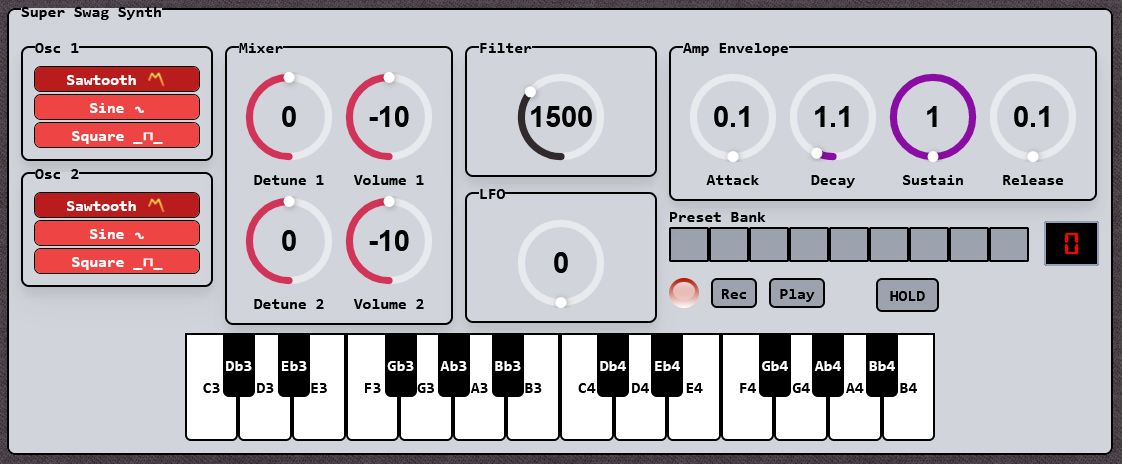
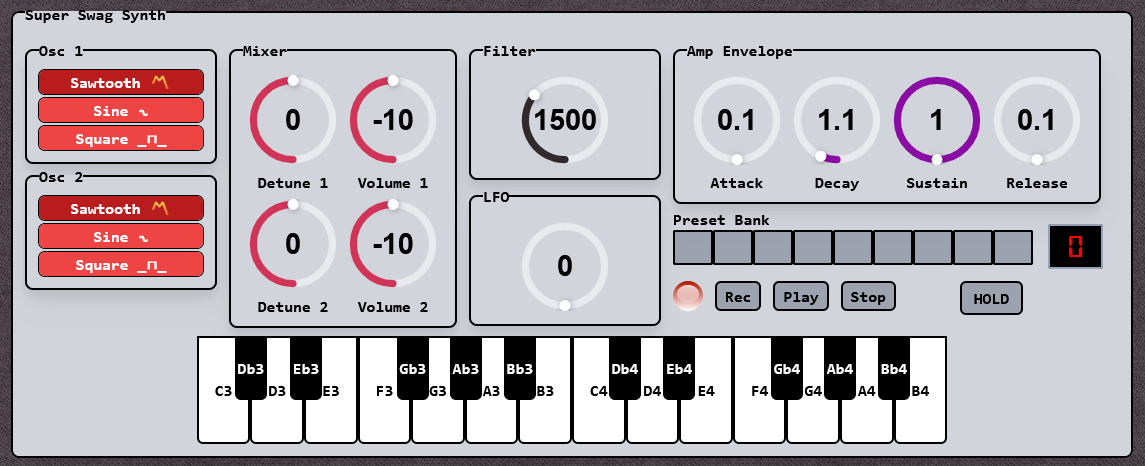
All around cleaning up
- Deleted cat photos
- added photos to about section
- commented out all aws code
- added stop button for sequence

Changed region(s): [[0.0, 0.0, 1.0, 1.0], [0.4679, 0.5431, 0.5303, 0.6034], [0.4679, 0.6336, 0.5303, 0.6638]]

diff --git a/src/pages/Synth.js b/src/pages/Synth.js
@@ -204,13 +204,23 @@ export const Synth = () => {
     setSequenceRecording(prevSequenceRecording => !prevSequenceRecording)
   }
 
+  let seq;
   const handlePlayClick = () => {
-    const seq = new Tone.Sequence((time, note) => {
+    seq = new Tone.Sequence((time, note) => {
       synth.triggerAttackRelease(note, 0.1, time);
       // subdivisions are given as subarrays
     }, sequence).start(0);
     Tone.Transport.start();
     ampEnv.triggerAttack()
+  }
+
+  const handleStopClick = () => {
+    if (seq) {
+      Tone.Transport.stop()
+      seq.stop()
+      seq.dispose()
+      seq = null
+    }
   }
 
   const handleAmpEnvChange = (name, value)  => {
@@ -268,10 +278,10 @@ export const Synth = () => {
   }
 
   return (
-    <div className="App">
+    <div className="App bg-sky-700 flex">
       <NavBar />
 
-      <div className='textured-background rounded-xl py-20'>
+      <div className='textured-background rounded-xl m-auto p-20 mt-40'>
 
       {/* SYNTH BODY */}
       <fieldset className='synth-body '> 
@@ -336,11 +346,11 @@ export const Synth = () => {
 
 
             <div className='flex flex-row mb-3 mt-3 justify-between'>
-              <Sequencer ledState={ledState} handleRecClick={handleRecClick} handlePlayClick={handlePlayClick}/>
+              <Sequencer ledState={ledState} handleRecClick={handleRecClick} handlePlayClick={handlePlayClick} handleStopClick={handleStopClick}/>
 
-              <button className={`${holdState ? 'bg-red-400' : 'bg-gray-400'} rounded-md px-3 border-solid border-black border-2 ml-3 transition-all duration-200 mr-40`} onClick={handleHoldStateChange}>HOLD</button>
+              <button className={`${holdState ? 'bg-red-400' : 'bg-gray-400'} rounded-md px-3 border-solid border-black border-2 ml-16 transition-all duration-200 mr-24`} onClick={handleHoldStateChange}>HOLD</button>
 
-              <button onClick={testPutObject}>TEst</button>
+              {/* <button onClick={testPutObject}>TEst</button> */}
         
             {/* <Oscilliscope analyzer={analyzer}/> */}
             </div>
@@ -365,24 +375,6 @@ export const Synth = () => {
       {/* end synth texture background div */}
       </div>
 
-      <div className='flex flex-wrap bg-slate-500'>
-        <img src={"../Images/buh.gif"} className='cat-gif'></img>
-        <img src={"../Images/buhhh.gif"} className='cat-gif'></img>
-        <img src={"../Images/funny-cat.gif"} className='cat-gif'></img>
-        <img src={"../Images/buh_upside_down.gif"} className='cat-gif'></img>
-        <img src={"../Images/catwaa.gif"} className='cat-gif'></img>
-        <img src={"../Images/crazycat.gif"} className='cat-gif'></img>
-        <img src={"../Images/buh2.gif"} className='cat-gif'></img>
-        <img src={"../Images/plink.gif"} className='cat-gif'></img>
-        <img src={"../Images/screamingcat.gif"} className='cat-gif'></img>
-        <img src={"../Images/happycat.gif"} className='cat-gif'></img>
-        <img src={"../Images/cat explode.gif"} className='cat-gif'></img>
-        <img src={"../Images/huhcat.gif"} className='cat-gif'></img>
-        <img src={"../Images/cateating.gif"} className='cat-gif'></img>
-        <img src={"../Images/catBOOM.gif"} className='cat-gif'></img>
-        <h1 className='opacity-0 hover:opacity-100'>Ethan is so cute ❤</h1>
-        <h1 className='opacity-0 hover:opacity-100'>Tj is so ugly 🤮</h1>
-      </div>
       <Footer />
     </div>
   );

diff --git a/src/pages/About.js b/src/pages/About.js
@@ -19,7 +19,7 @@ export const About = () => {
       <div className="spacer layer1"></div>
 
       <div className="bg-pink-600 flex flex-col">
-        <h1 className='py-20 m-auto text-gray-200 text-6xl'>Inspiration</h1>
+        <h1 className='py-20 m-auto text-gray-200 text-6xl -mt-16'>Inspiration</h1>
 
         {/* <img src="./Images/personal-synth-photo-nb.png"></img> */}
         <img src="./Images/personal-synth-photo.jpg" className='rounded-full w-2/3 m-auto border-solid border-2 border-slate-400'></img>
@@ -31,17 +31,36 @@ export const About = () => {
 
       <div className="flex flex-col bg-sky-950">
         <div className="spacer layer2"></div>
-        <h1 className="py-20 m-auto text-gray-200 text-6xl">In Depth Look</h1>
+        <h1 className="py-20 m-auto text-gray-200 text-6xl -mt-28">In Depth Look</h1>
 
         <div className="flex flex-row">
           <img src="../Images/OscSelectors.png" className="w-72 h-72 rounded-lg paragraph-text"></img>
           <h2 className="paragraph-text mr-36">Osc Selectors yeeah they do things yea so ciool!!sc Selectors yeeah they do things yea so ciool!!sc Selectors yeeah they do things yea so ciool!!sc Selectors yeeah they do things yea so ciool!!sc Selectors yeeah they do things yea so ciool!!sc Selectors yeeah they do things yea so ciool!!!!!</h2>
         </div>
 
-        <div className="spacer layer3"></div>
+        <div className="spacer-2 layer3"></div>
+
+        <div className="flex flex-row">
+          <img src="../Images/mixer-filter-lfo.png" className="rounded-lg paragraph-text"></img>
+          <h2 className="paragraph-text mr-36">Osc Selectors yeeah they do things yea so ciool!!sc Selectors yeeah they do things yea so ciool!!sc Selectors yeeah they do things yea so ciool!!sc Selectors yeeah they do things yea so ciool!!sc Selectors yeeah they do things yea so ciool!!sc Selectors yeeah they do things yea so ciool!!!!!</h2>
+        </div>
+
+        <div className="spacer-2 layer4"></div>
+
+        <div className="flex flex-row">
+          <img src="../Images/amp-envelope.png" className="rounded-lg paragraph-text"></img>
+          <h2 className="paragraph-text mr-36">Osc Selectors yeeah they do things yea so ciool!!sc Selectors yeeah they do things yea so ciool!!sc Selectors yeeah they do things yea so ciool!!sc Selectors yeeah they do things yea so ciool!!sc Selectors yeeah they do things yea so ciool!!sc Selectors yeeah they do things yea so ciool!!!!!</h2>
+        </div>
+
+        <div className="spacer-2 layer5"></div>
+
+        <div className="flex flex-row">
+          <img src="../Images/preset-sequencer-hold.png" className="rounded-lg paragraph-text"></img>
+          <h2 className="paragraph-text mr-36">Osc Selectors yeeah they do things yea so ciool!!sc Selectors yeeah they do things yea so ciool!!sc Selectors yeeah they do things yea so ciool!!sc Selectors yeeah they do things yea so ciool!!sc Selectors yeeah they do things yea so ciool!!sc Selectors yeeah they do things yea so ciool!!!!!</h2>
+        </div>
+
+
       </div>
-
-
       <div className='pt-24'></div>
       <Footer />
     </div>

diff --git a/src/TempPresetStorage.js b/src/TempPresetStorage.js
@@ -1,13 +1,14 @@
-const AWS = require('aws-sdk')
-//  ONLY HARD CODING KEYS AS ENVIORMENT VARIABLES ARE NOT WOKRING (IM DUMB)
-const s3 = new AWS.S3({
-  accessKeyId: 'NO KEY FOR YOU',
-  secretAccessKey: 'YOU NO GET MY KEY',
-  region: 'us-east-1'
-})
+// const AWS = require('aws-sdk')
+// //  ONLY HARD CODING KEYS AS ENVIORMENT VARIABLES ARE NOT WOKRING (IM DUMB)
+// const s3 = new AWS.S3({
+//   accessKeyId: 'NO KEY FOR YOU',
+//   secretAccessKey: 'YOU NO GET MY KEY',
+//   region: 'us-east-1'
+// })
 
-const bucketName = 'reactsynthpresetstorage'
-const keyName = 'presetBank.json'
+// console.log(process.env.AWS_ACCESS_KEY_ID)
+// const bucketName = 'reactsynthpresetstorage'
+// const keyName = 'presetBank.json'
 
 export const presetsBank = {
   preset_1: {
@@ -78,23 +79,37 @@ export const presetsBank = {
     },
     filterValue: 2000,
     lfoRate: 5
+  },
+
+  preset_6: {
+    osc1: {
+      wave: "sine", detune: 0, volume: -10
+    },
+    osc2: {
+      wave: "square", detune: 0, volume: -40
+    },
+    ampEnvState: {
+      attack: 0.1, decay: 1.5, sustain: 0, release: 1.5
+    },
+    filterValue: 4000,
+    lfoRate: 0
   }
 }
 
-const params = {
-  Bucket: bucketName,
-  Key: keyName,
-  Body: JSON.stringify(presetsBank),
-  ContentType: 'application/json'
-}
+// const params = {
+//   Bucket: bucketName,
+//   Key: keyName,
+//   Body: JSON.stringify(presetsBank),
+//   ContentType: 'application/json'
+// }
 
-export const testPutObject = () => {
-  s3.putObject(params, (err, data) => {
-    if (err) {
-      console.error('Error uploading data:', err)
-    }
-    else {
-      console.log('Successfully uploaded data to', bucketName + '/' + keyName)
-    }
-  })
-}
+// export const testPutObject = () => {
+//   s3.putObject(params, (err, data) => {
+//     if (err) {
+//       console.error('Error uploading data:', err)
+//     }
+//     else {
+//       console.log('Successfully uploaded data to', bucketName + '/' + keyName)
+//     }
+//   })
+// }

diff --git a/src/Components/NavBar.jsx b/src/Components/NavBar.jsx
@@ -6,7 +6,7 @@ export const NavBar = () => {
 
 
   return (
-    <div className='bg-cyan-800 flex flex-row justify-between w-full z-50 absolute rounded-b-lg border-b-2 border-indigo-300 border-double'>
+    <div className='bg-sky-950 flex flex-row justify-between w-full z-50 absolute rounded-b-lg border-b-2 border-indigo-300 border-double'>
       <div className="flex">
         <img src="../Images/synthesizer-icon.ico" className='size-20 p-3'></img>
         {/* <h1 className="text">Home</h1> */}

diff --git a/src/Styles/About.css b/src/Styles/About.css
@@ -12,6 +12,14 @@
   background-size: cover;
 }
 
+.spacer-2 {
+  aspect-ratio: 960/100;
+  width: 100%;
+  background-repeat: no-repeat;
+  background-position: center;
+  background-size: cover;
+}
+
 .layer1 {
   background-image: url(../svg/cyan-pink2.svg);
 }
@@ -23,3 +31,12 @@
 .layer3 {
   background-image: url(../svg/pink-divider.svg);
 }
+
+.layer4 {
+  background-image: url(../svg/pink-divider2.svg);
+}
+
+.layer5 {
+  background-image: url(../svg/pink-divider3.svg);
+}
+

diff --git a/src/Components/Sequencer.jsx b/src/Components/Sequencer.jsx
@@ -15,6 +15,7 @@ export const Sequencer = (props) => {
       </div>
       <button className='sequencer-button' onClick={props.handleRecClick}>Rec</button>
       <button className="sequencer-button" onClick={props.handlePlayClick}>Play</button>
+      <button className="sequencer-button" onClick={props.handleStopClick}>Stop</button>
     </div>
   )
 }

diff --git a/src/Styles/App.css b/src/Styles/App.css
@@ -1,6 +1,6 @@
 
 body {
-  @apply  font-mono font-semibold;
+  @apply  font-mono font-semibold bg-sky-700;
   /* bg-gradient-to-r from-cyan-500 to-blue-500 */
 
 }
